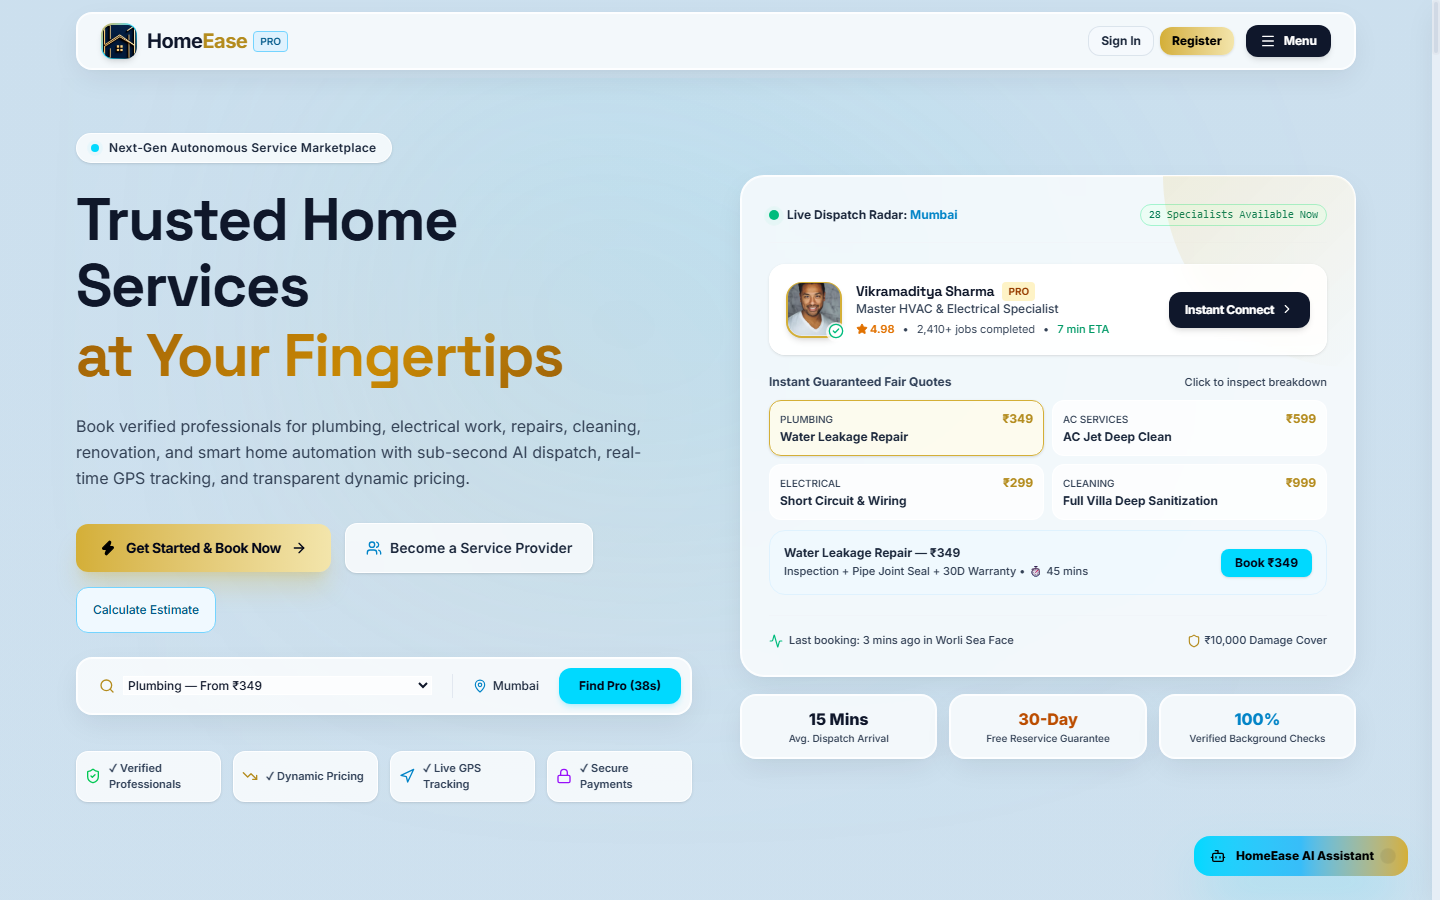
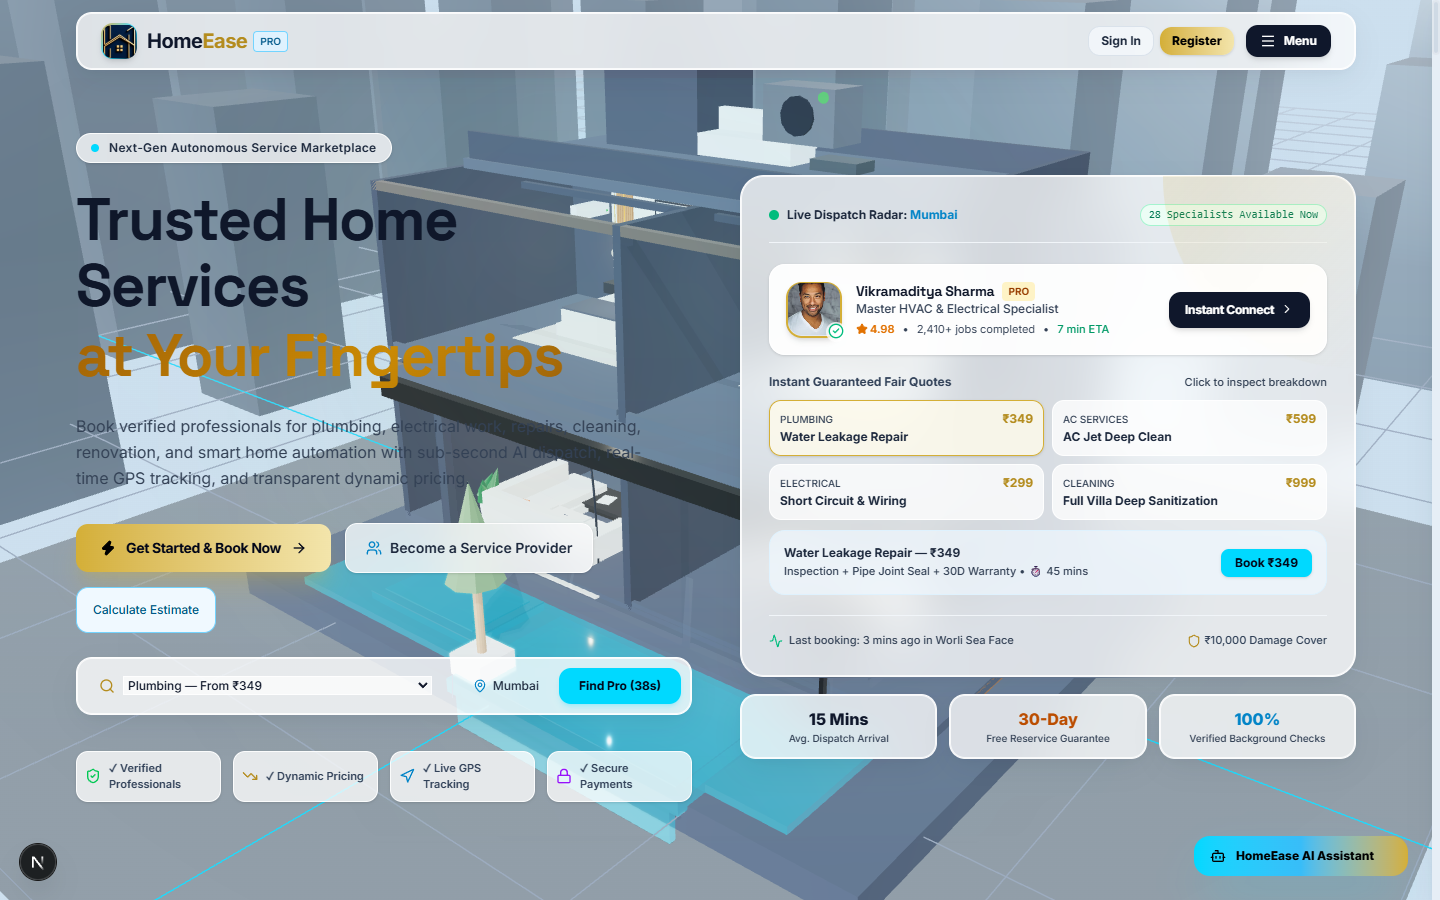
feat: render 3D villa model on initial load and update high-res screenshots

diff --git a/src/components/3d/BackgroundScroll3D.tsx b/src/components/3d/BackgroundScroll3D.tsx
@@ -365,6 +365,7 @@ export default function BackgroundScroll3D() {
         glbContainer.add(model);
         const isCurrentLight = typeof document !== 'undefined' && (document.documentElement.classList.contains('light') || !document.documentElement.classList.contains('dark'));
         applyThemeMaterials(isCurrentLight);
+        renderer.render(scene, camera);
       },
       undefined,
       (error) => {
@@ -733,8 +734,8 @@ export default function BackgroundScroll3D() {
         vehicleGroup.quaternion.setFromUnitVectors(_tempVec3.set(1, 0, 0), tangent);
       }
 
-      // Particles morphing (Genesis & Finale)
-      const isLogoParticles = p < 0.05 || p > 0.97;
+      // Particles morphing (Finale)
+      const isLogoParticles = p > 0.97;
       particles.visible = isLogoParticles;
       if (isLogoParticles) {
         const positions = particleGeom.attributes.position.array as Float32Array;
@@ -763,6 +764,12 @@ export default function BackgroundScroll3D() {
     } else {
       frameId = window.setTimeout(tick, 10);
     }
+
+    const renderIntervalId = setInterval(() => {
+      try {
+        renderer.render(scene, camera);
+      } catch {}
+    }, 250);
 
     // Resize Handler
     const handleResize = () => {
@@ -800,6 +807,7 @@ export default function BackgroundScroll3D() {
 
     // Cleanup
     return () => {
+      clearInterval(renderIntervalId);
       themeObserver.disconnect();
       window.removeEventListener('scroll', handleScroll);
       window.removeEventListener('resize', handleResize);

diff --git a/src/data/scenes.ts b/src/data/scenes.ts
@@ -8,9 +8,9 @@ export const SCENES: SceneStep[] = [
     subtitle: "One Platform. Every Home Service.",
     category: "Genesis",
     description: "In an interconnected world, your home is your sanctuary. Discover a revolutionary ecosystem designed for effortless living.",
-    cameraPos: [0, 0, 18],
-    cameraTarget: [0, 0, 0],
-    mode: 'logo'
+    cameraPos: [13, 11, 16],
+    cameraTarget: [0, 2.5, 0],
+    mode: 'villa'
   },
   {
     id: 2,
